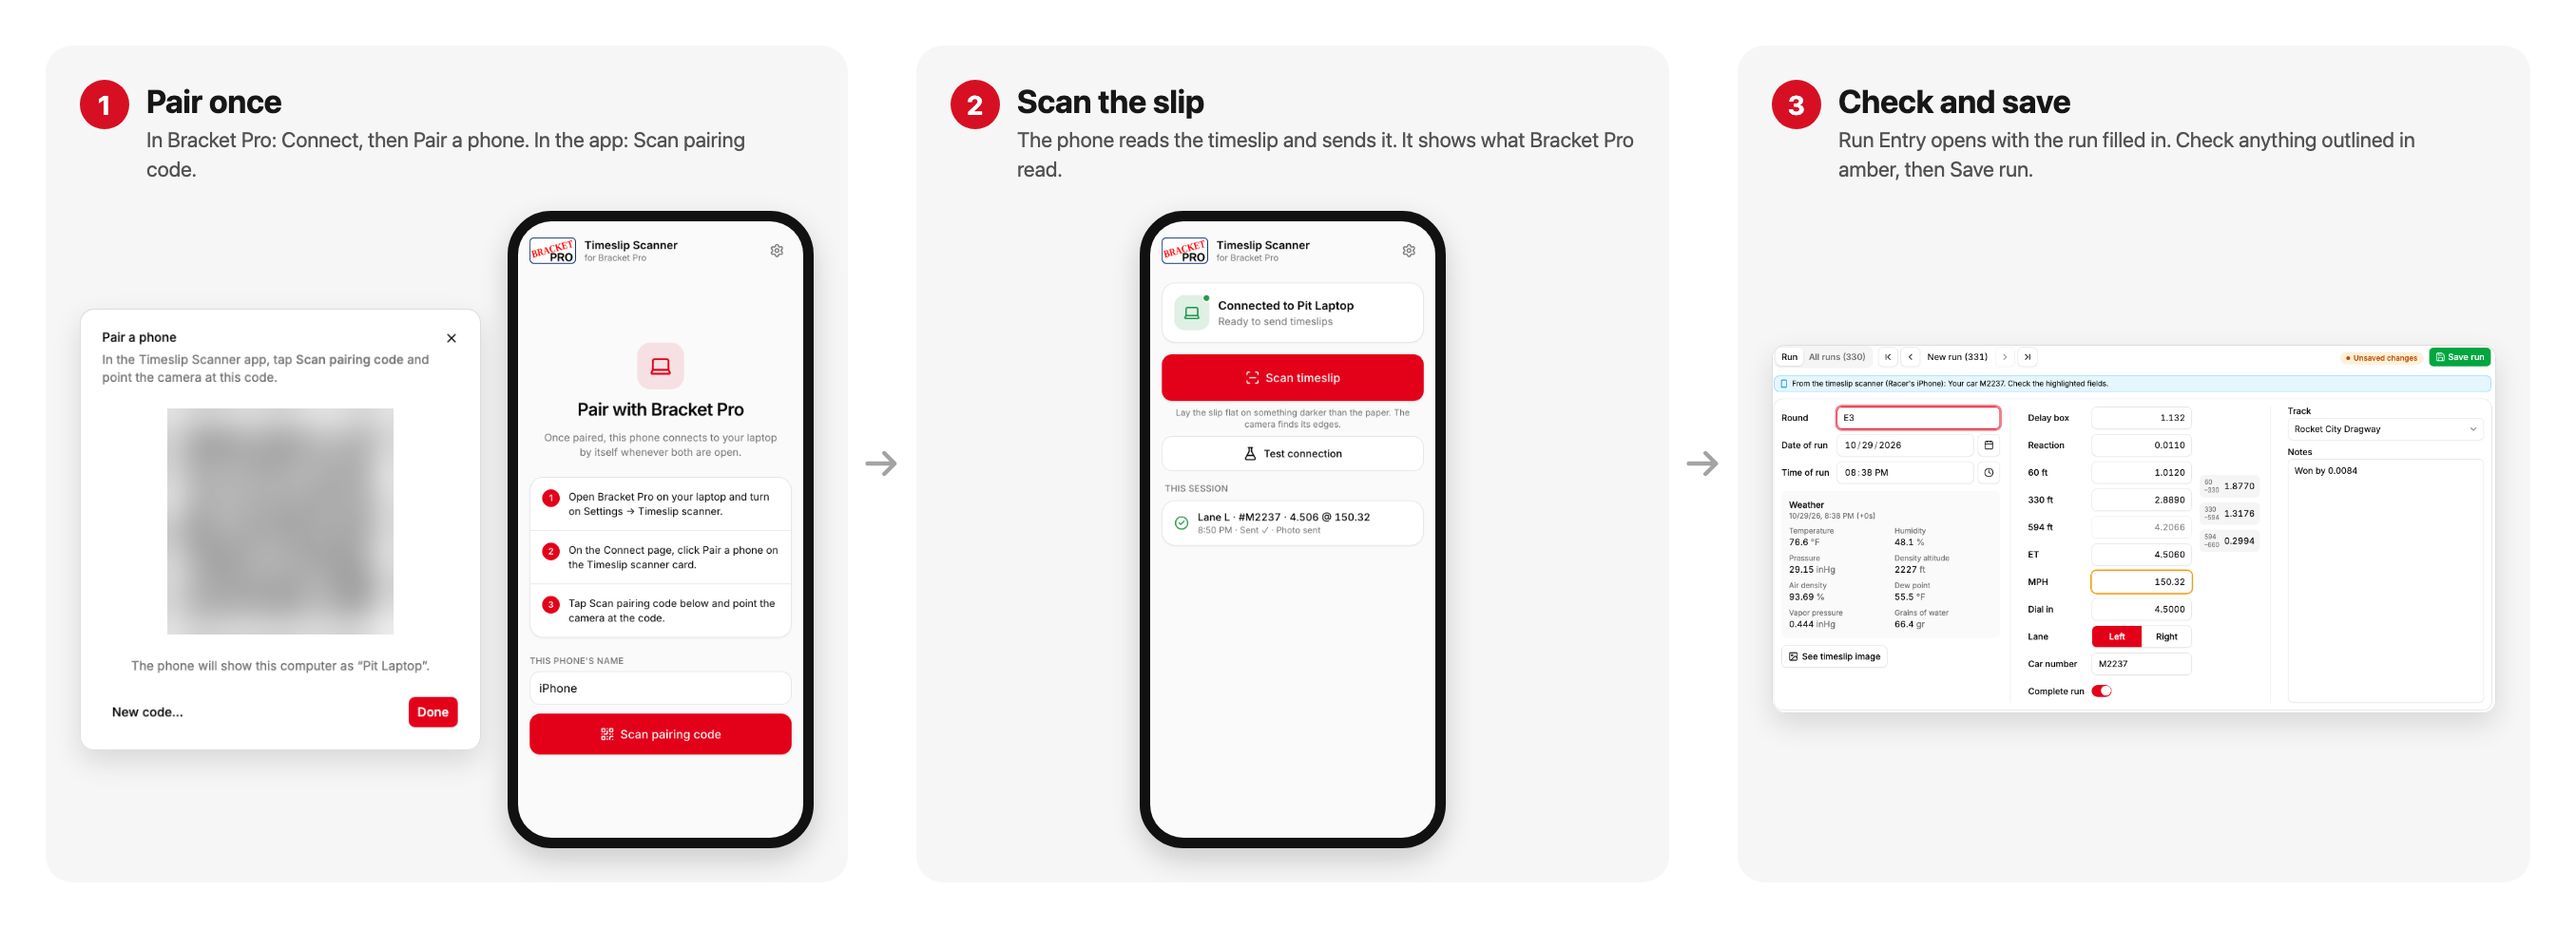
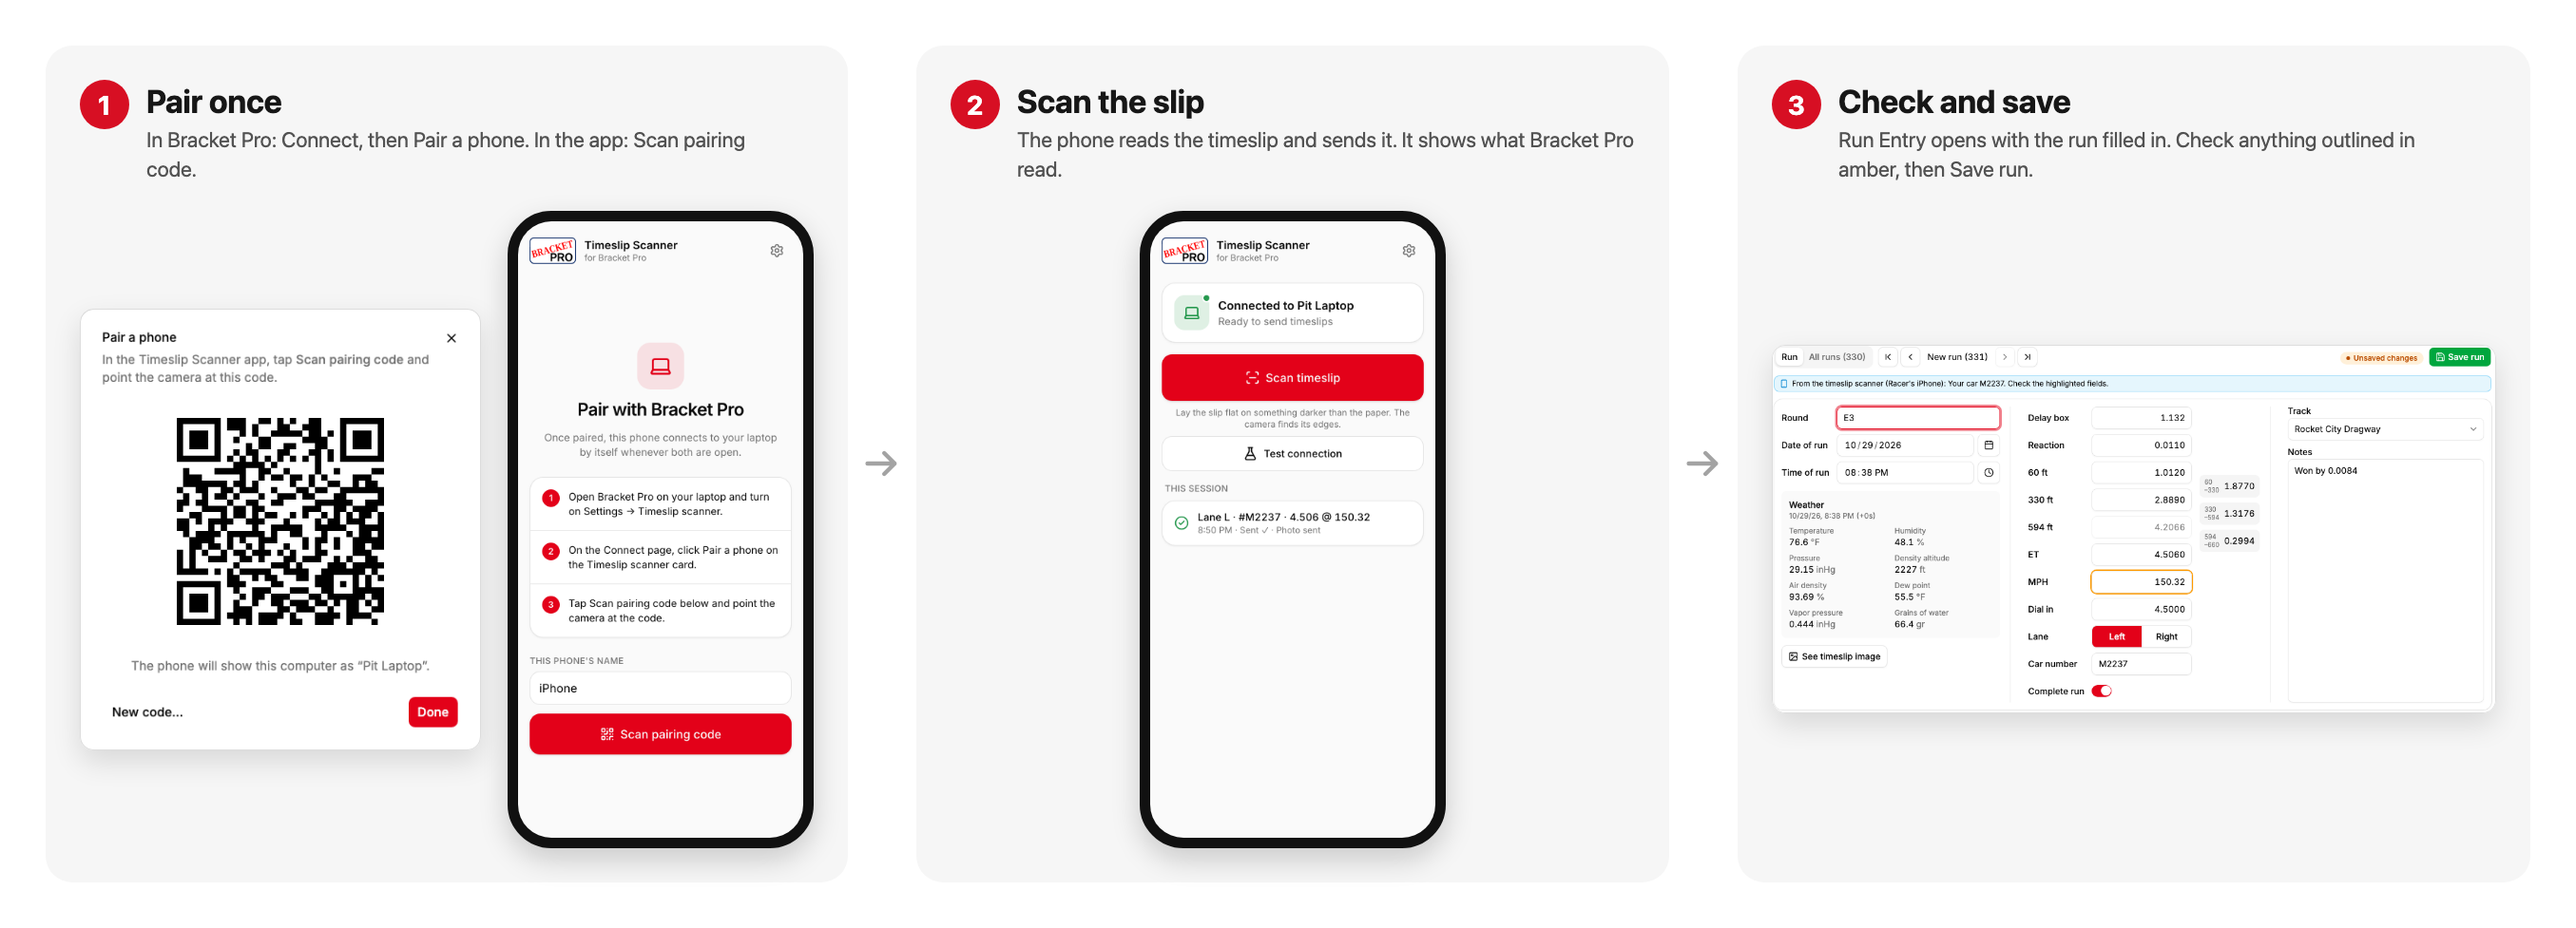
Bracket Pro page, rickroll QR codes in the scanner images, spacing fixes
- software/: what Bracket Pro does (weather, logbook, Run Selection, Predict, formulas,
  pager, what you need), from the User's Manual with its screenshots, linked from the
  menu and the home page's cards.
- The pairing QR codes in scanner-pairing.png and scanner-flow.png now lead to a rickroll
  instead of being blurred; the real ones carry confidential pairing data.
- main.wrap keeps its top spacing (.wrap's padding overrode main's); the menu wraps
  neatly on phones.

Changed region(s): [[0.062, 0.4299, 0.155, 0.7062]]

diff --git a/software/index.html b/software/index.html
@@ -1,0 +1,112 @@
+<!doctype html>
+<html lang="en">
+<head>
+  <meta charset="utf-8">
+  <meta name="viewport" content="width=device-width, initial-scale=1">
+  <title>Bracket Pro · Bracket Pro Racing</title>
+  <meta name="description" content="Bracket Pro is a logbook, weather station and ET predictor for 1/8 and 1/4 mile bracket racing.">
+  <link rel="icon" href="/images/favicon.png">
+  <link rel="apple-touch-icon" href="/images/apple-touch-icon.png">
+  <link rel="stylesheet" href="/style.css">
+</head>
+<body>
+  <header class="site">
+    <div class="wrap">
+      <a class="brand" href="/"><img src="/images/logo.svg" alt="Bracket Pro"></a>
+      <nav aria-label="Site">
+        <a href="/software/" aria-current="page">Bracket Pro</a>
+        <a href="/scanner/">Timeslip Scanner</a>
+        <a href="/support/">Support</a>
+        <a href="/privacy/">Privacy</a>
+      </nav>
+    </div>
+  </header>
+
+  <main class="wrap">
+    <h1>Bracket Pro</h1>
+    <p class="lead">A logbook, weather station and ET predictor for 1/8 and 1/4 mile bracket racing. Plug in a
+      Bracket Pro weather station, record each run from your timeslip, and Bracket Pro tells you what your car should
+      run in the air you're racing in right now.</p>
+
+    <nav class="cards" aria-label="On this page">
+      <a class="card" href="#weather"><h3>Weather</h3><p>Logged every minute at your track's elevation.</p></a>
+      <a class="card" href="#logbook"><h3>Logbook</h3><p>Every run, laid out like a timeslip, with its weather.</p></a>
+      <a class="card" href="#predictions"><h3>Predictions</h3><p>Three formulas side by side, updated every minute.</p></a>
+    </nav>
+
+    <h2 id="weather">Weather, every minute</h2>
+    <p>The Bracket Pro weather station plugs into your laptop by USB. Bracket Pro reads it every 6 seconds and saves
+      a reading every minute: temperature, humidity, pressure, and the values worked out from them, such as density
+      altitude, air density, dew point and vapor pressure, at the elevation of the track you're at. Each value shows
+      how much it has changed since your last run.</p>
+    <figure>
+      <img src="/images/weather.png" alt="" width="1440" height="900" loading="lazy">
+      <figcaption>Current conditions, and how each has changed since the last run.</figcaption>
+    </figure>
+    <p>Graphs show any value from the last 15 minutes to 72 hours, with your runs marked on them.</p>
+    <figure>
+      <img src="/images/weather-graphs.png" alt="" width="1440" height="900" loading="lazy">
+      <figcaption>Graphs with runs marked; hovering over one shows its round, ET and MPH.</figcaption>
+    </figure>
+
+    <h2 id="logbook">Your logbook</h2>
+    <p>Run Entry is laid out like a timeslip: reaction, 60 ft, 330 ft, 594 ft, ET and MPH, then the dial-in, with the
+      splits worked out as you type. Each run keeps the weather it was made in. 1/4 mile tracks add the 1000 ft and
+      1/4 mile ET and MPH. Or skip the typing: the <a href="/scanner/">Timeslip Scanner</a> app fills it in from a
+      photo of the slip.</p>
+    <figure>
+      <img src="/images/run-entry.png" alt="" width="1440" height="900" loading="lazy">
+      <figcaption>Run Entry.</figcaption>
+    </figure>
+
+    <h2 id="predictions">Predictions</h2>
+    <p>Predictions are only as good as the runs they learn from. <strong>Run Selection</strong> picks them: by car,
+      track, lane, time of day, recent runs, similar weather, similar ET, or one at a time. Every run shows whether
+      it's used, and if not, why.</p>
+    <figure>
+      <img src="/images/run-selection.png" alt="" width="1440" height="900" loading="lazy">
+      <figcaption>Run Selection: filters on the left, every run's status on the right.</figcaption>
+    </figure>
+    <p><strong>Predict</strong> shows three formulas side by side and their average, updated every time a minute of
+      weather is saved. Each shows how well it fits your runs (R² and typical error) and a chart of the runs and the
+      formula, so you can see which suits your car.</p>
+    <figure>
+      <img src="/images/predict.png" alt="" width="1440" height="900" loading="lazy">
+      <figcaption>Three predictions and their average.</figcaption>
+    </figure>
+    <p>Formulas fit your runs against one or two conditions: curve and surface fits, weighted and planar fits, a rule
+      of thumb from your last run at your own rates, and machine learning that says how close the next run is likely
+      to be. Advanced users can write their own in Python.</p>
+    <figure>
+      <img src="/images/formulas.png" alt="" width="1440" height="900" loading="lazy">
+      <figcaption>The formula editor.</figcaption>
+    </figure>
+
+    <h2 id="pager">Pager</h2>
+    <p>With a pager transmitter, Bracket Pro sends the latest predictions, weather and your last run to your crew's
+      pagers, or to yours in the staging lanes, every few minutes. You choose what each line shows.</p>
+    <figure>
+      <img src="/images/pager.png" alt="" width="1440" height="900" loading="lazy">
+      <figcaption>The page format, and a preview of the next page.</figcaption>
+    </figure>
+
+    <h2 id="what-you-need">What you need</h2>
+    <ul>
+      <li>A computer running Windows 10 or 11, macOS 11 or later, or Linux, with a screen at least 1280 × 720.</li>
+      <li>A Bracket Pro weather station (version 3) and its USB cable.</li>
+      <li>Optional: a pager transmitter and pagers.</li>
+      <li>Optional: an iPhone with the <a href="/scanner/">Timeslip Scanner</a> app, and Bluetooth on the computer.</li>
+    </ul>
+    <p>Coming from Bracket Pro 1? Your runs, tracks, formulas and pager numbers come with you.</p>
+    <p>Questions? Email <a href="mailto:support@bracketproracing.com">support@bracketproracing.com</a>.</p>
+  </main>
+
+  <footer class="site">
+    <div class="wrap">
+      <span>© 2026 Bracket Pro Racing</span>
+      <a href="mailto:support@bracketproracing.com">support@bracketproracing.com</a>
+      <a href="/privacy/">Privacy policy</a>
+    </div>
+  </footer>
+</body>
+</html>

diff --git a/style.css b/style.css
@@ -45,9 +45,13 @@ header.site .brand { display: flex; align-items: center; gap: 10px; text-decorat
 header.site .brand img { height: 36px; width: auto; }
 header.site nav { margin-left: auto; display: flex; gap: 18px; flex-wrap: wrap; }
 header.site nav a { color: var(--muted); text-decoration: none; font-size: 15px; }
+@media (max-width: 520px) {
+  header.site .wrap { padding-top: 8px; padding-bottom: 10px; gap: 6px; }
+  header.site nav { margin-left: 0; gap: 14px; }
+}
 header.site nav a:hover, header.site nav a[aria-current="page"] { color: var(--text); }
 
-main { padding-top: 40px; padding-bottom: 64px; }
+main.wrap { padding-top: 40px; padding-bottom: 64px; }
 h1 { font-size: clamp(30px, 6vw, 44px); line-height: 1.15; letter-spacing: -0.02em; margin: 0 0 12px; }
 h2 { font-size: 26px; line-height: 1.25; letter-spacing: -0.01em; margin: 48px 0 12px; scroll-margin-top: 80px; }
 h3 { font-size: 19px; margin: 28px 0 6px; scroll-margin-top: 80px; }
@@ -61,6 +65,8 @@ figcaption { font-size: 14px; color: var(--muted); margin-top: 8px; }
 .cards { display: grid; grid-template-columns: repeat(auto-fit, minmax(240px, 1fr)); gap: 16px; margin: 24px 0; }
 .card { background: var(--surface); border: 1px solid var(--border); border-radius: 14px; padding: 20px; }
 .card h3 { margin-top: 0; }
+a.card { color: inherit; text-decoration: none; transition: border-color .15s; }
+a.card:hover { border-color: var(--muted); }
 .card p { margin: 0; color: var(--muted); }
 
 .button {

diff --git a/index.html b/index.html
@@ -14,6 +14,7 @@
     <div class="wrap">
       <a class="brand" href="/"><img src="/images/logo.svg" alt="Bracket Pro"></a>
       <nav aria-label="Site">
+        <a href="/software/">Bracket Pro</a>
         <a href="/scanner/">Timeslip Scanner</a>
         <a href="/support/">Support</a>
         <a href="/privacy/">Privacy</a>
@@ -27,19 +28,20 @@
       scans your timeslips straight into it.</p>
 
     <div class="cards">
-      <div class="card">
+      <a class="card" href="/software/#logbook">
         <h3>Your logbook</h3>
         <p>Every run, at every track, with the weather it was made in. 1/8 and 1/4 mile.</p>
-      </div>
-      <div class="card">
+      </a>
+      <a class="card" href="/software/#weather">
         <h3>Weather</h3>
         <p>The Bracket Pro weather station logs the air all day: temperature, humidity, pressure and density altitude.</p>
-      </div>
-      <div class="card">
+      </a>
+      <a class="card" href="/software/#predictions">
         <h3>Predictions</h3>
         <p>Pick the runs that matter and see what the car should run in the weather right now.</p>
-      </div>
+      </a>
     </div>
+    <p><a class="button" href="/software/">More about Bracket Pro</a></p>
 
     <h2>Timeslip Scanner for iPhone</h2>
     <p>Point your phone at a timeslip and the run opens in Bracket Pro on your pit laptop, filled in and paired with

diff --git a/privacy/index.html b/privacy/index.html
@@ -14,6 +14,7 @@
     <div class="wrap">
       <a class="brand" href="/"><img src="/images/logo.svg" alt="Bracket Pro"></a>
       <nav aria-label="Site">
+        <a href="/software/">Bracket Pro</a>
         <a href="/scanner/">Timeslip Scanner</a>
         <a href="/support/">Support</a>
         <a href="/privacy/" aria-current="page">Privacy</a>

diff --git a/scanner/index.html b/scanner/index.html
@@ -14,6 +14,7 @@
     <div class="wrap">
       <a class="brand" href="/"><img src="/images/logo.svg" alt="Bracket Pro"></a>
       <nav aria-label="Site">
+        <a href="/software/">Bracket Pro</a>
         <a href="/scanner/" aria-current="page">Timeslip Scanner</a>
         <a href="/support/">Support</a>
         <a href="/privacy/">Privacy</a>

diff --git a/support/index.html b/support/index.html
@@ -14,6 +14,7 @@
     <div class="wrap">
       <a class="brand" href="/"><img src="/images/logo.svg" alt="Bracket Pro"></a>
       <nav aria-label="Site">
+        <a href="/software/">Bracket Pro</a>
         <a href="/scanner/">Timeslip Scanner</a>
         <a href="/support/" aria-current="page">Support</a>
         <a href="/privacy/">Privacy</a>

diff --git a/404.html b/404.html
@@ -12,6 +12,7 @@
     <div class="wrap">
       <a class="brand" href="/"><img src="/images/logo.svg" alt="Bracket Pro"></a>
       <nav aria-label="Site">
+        <a href="/software/">Bracket Pro</a>
         <a href="/scanner/">Timeslip Scanner</a>
         <a href="/support/">Support</a>
         <a href="/privacy/">Privacy</a>

diff --git a/README.md b/README.md
@@ -1,16 +1,20 @@
 # bracketproracing.com
 
-The public website for Bracket Pro and the Timeslip Scanner app: the support page and the
-privacy policy that the App Store listing links to, and the scanner's how-to.
+The public website for Bracket Pro and the Timeslip Scanner app: what Bracket Pro does, the
+scanner's how-to, and the support page and privacy policy that the App Store listing links to.
 
 Plain HTML and one stylesheet, served as is by GitHub Pages (no build step). It's a submodule
 of the Bracket Pro repo at `site/`.
 
-- `scanner/` is adapted from the User's Manual's "Timeslip scanner" chapter, and `support/` from
-  its "When the scanner doesn't connect" section. Update them when the manual changes.
-- The screenshots in `images/scanner-*.png` are copies of the manual's. After
-  `pnpm run docs:screenshots` in Bracket Pro, refresh them from the Bracket Pro repo's root:
-  `cp docs/manual/images/scanner-*.png site/images/`
+- `software/` is adapted from the User's Manual's chapters on weather, Run Entry, Run Selection,
+  Predict and Pager; `scanner/` from its "Timeslip scanner" chapter, and `support/` from that
+  chapter's "When the scanner doesn't connect". Update them when the manual changes.
+- The screenshots in `images/` are copies of the manual's. After `pnpm run docs:screenshots` in
+  Bracket Pro, refresh them from the Bracket Pro repo's root:
+  `cp docs/manual/images/{run-entry,weather,weather-graphs,run-selection,predict,formulas,pager,scanner-card,scanner-check,scanner-photo,scanner-run-entry}.png site/images/`
+- **Not** `scanner-pairing.png` or `scanner-flow.png`: they show a real pairing QR code, and the
+  pairing data is confidential. Here those codes are covered with one for a YouTube link (per
+  the user). Cover the code again before replacing either.
 - `privacy/` is the Timeslip Scanner's privacy policy (the app links to `/privacy`). Change its
   date when it changes, and keep it in step with the app's privacy manifest and App Store
   privacy answers.
